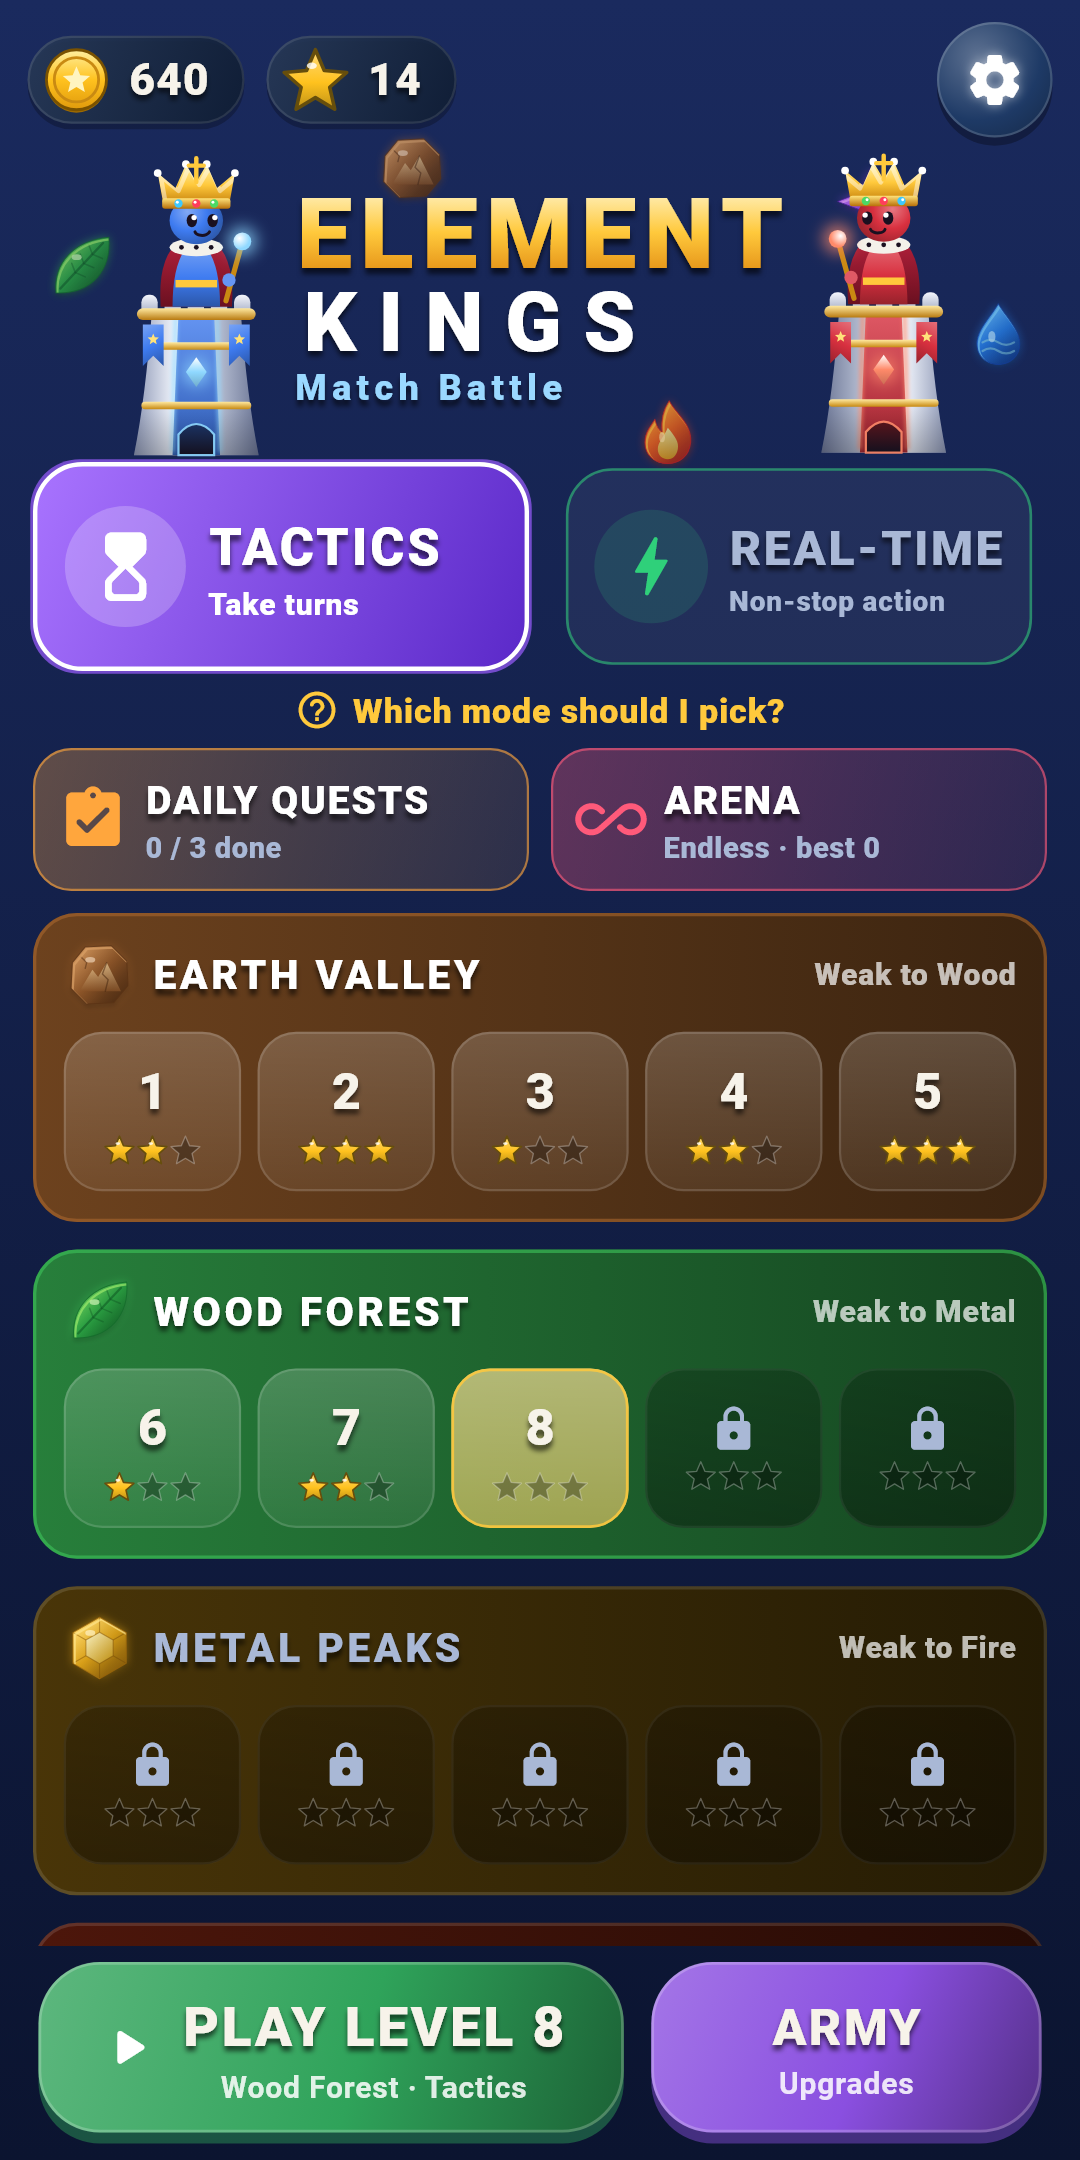
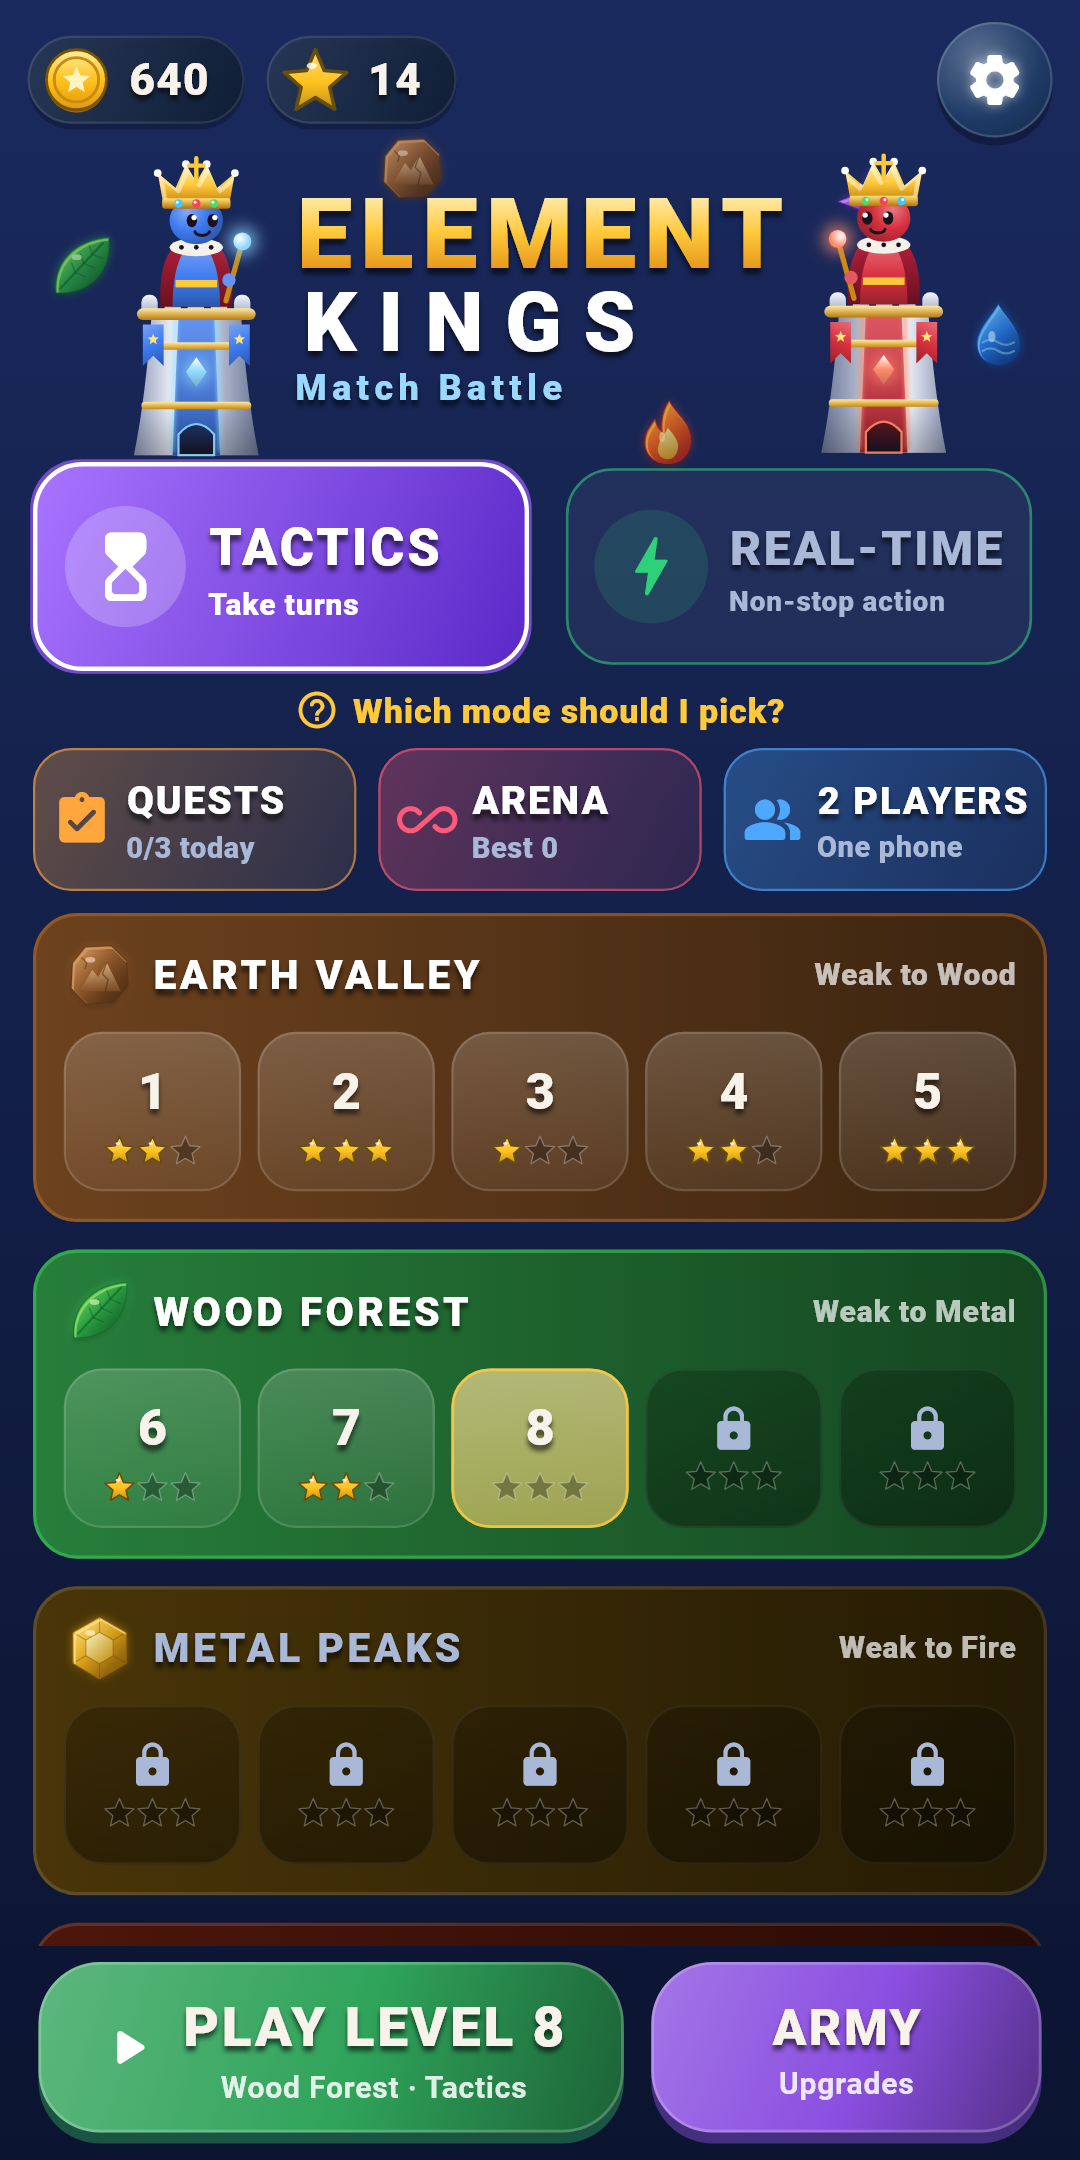
Element Kings 1.4: 2 players on one phone

Changed region(s): [[0.0306, 0.3412, 0.9778, 0.4343]]

diff --git a/elementkings/index.html b/elementkings/index.html
@@ -58,6 +58,8 @@
       <p>Each King starts behind a weak Pawn tower and one random Knight, Rook, Bishop or Queen tower. Break through them first!</p></div>
     <div class="card"><div class="emoji">🏆</div><h3>Endless Arena and daily quests</h3>
       <p>Arena rounds get harder and harder while your King's health carries over. Three new quests every day for bonus coins.</p></div>
+    <div class="card"><div class="emoji">👥</div><h3>2 players on one phone</h3>
+      <p>Challenge a friend: Blue King vs Red King take turns on one shared board. An even fight with no upgrades, just skill.</p></div>
     <div class="card"><div class="emoji">🗺</div><h3>30 battles, 6 realms</h3>
       <p>From Earth Valley to the Magic Castle. Each realm favours its element, so pick the right counters.</p></div>
     <div class="card"><div class="emoji">⬆</div><h3>Upgrade and play offline</h3>
@@ -77,6 +79,8 @@
     <img src="img/screen-10.png" alt="Choosing between Real-time and Tactics" loading="lazy">
     <img src="img/screen-11.png" alt="Daily quests" loading="lazy">
     <img src="img/screen-12.png" alt="An endless Arena round" loading="lazy">
+    <img src="img/screen-13.png" alt="Two players: Blue King vs Red King" loading="lazy">
+    <img src="img/screen-14.png" alt="Starting a 2 player duel" loading="lazy">
   </div>
 </main>
 <footer>
